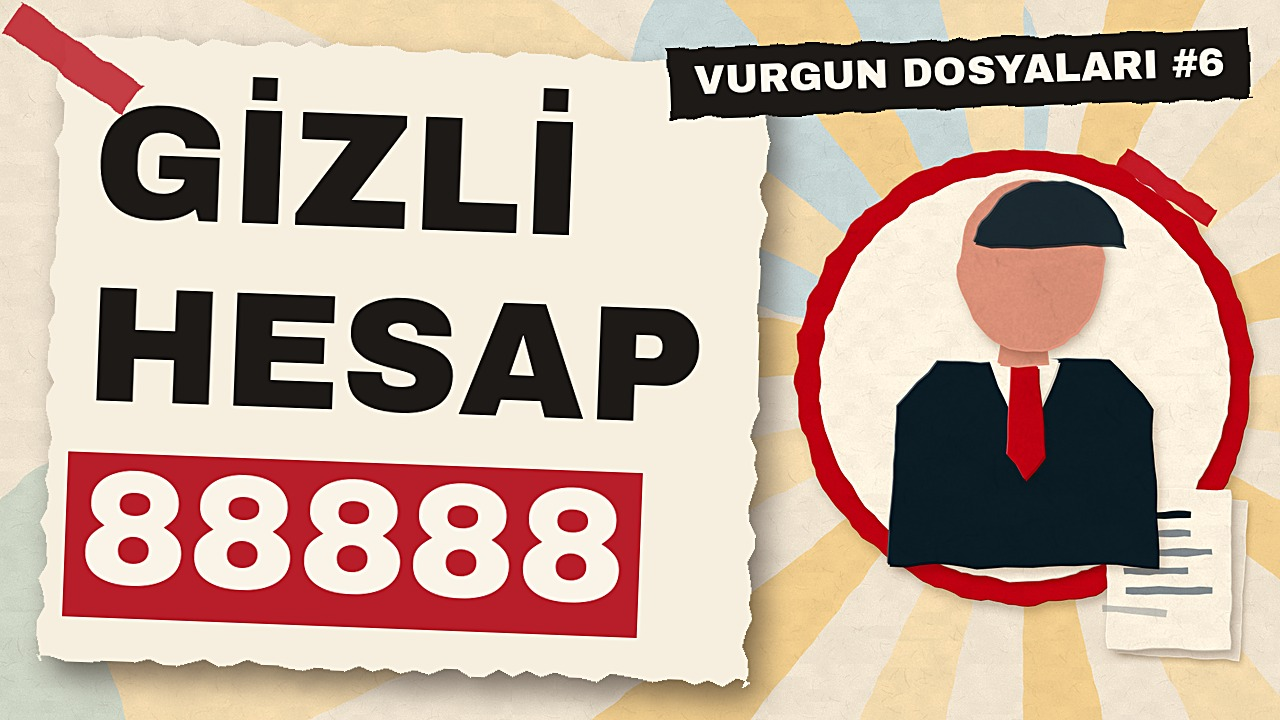
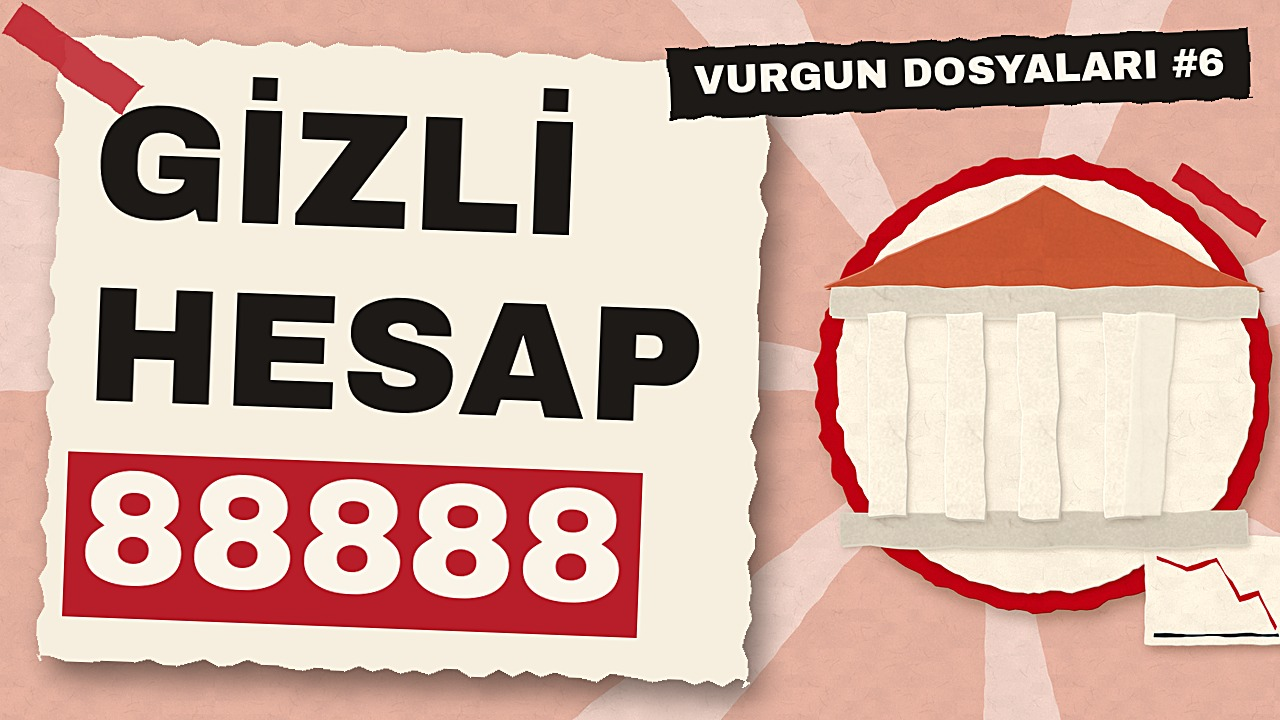
Son 6 videonun kapağı yeni kapak sistemiyle yenilendi
Claude-Session: https://claude.ai/code/session_01SX3fFHWYwdT2uozqr7xn97

diff --git a/tools/kapak_yenile.py b/tools/kapak_yenile.py
@@ -1,5 +1,6 @@
 """Yüklenmiş videoların kapaklarını kanal tarzında yeniden üretir ve YouTube'da değiştirir.
-Liste: data/kapak_yenile.json  ->  [{"video_id", "text", "prompt"}]"""
+Liste: data/kapak_yenile.json  ->  [{"video_id", "text", "prompt"}]
+"hazir": "<jpg yolu>" verilirse çizim yapılmaz, o dosya doğrudan yüklenir (kâğıt motoru kapakları)."""
 import json
 import sys
 from pathlib import Path
@@ -19,6 +20,13 @@ finder = VisualFinder(cfg, out / "_tmp")
 yt = uploader.get_service()
 for it in items:
     vid = it["video_id"]
+    if it.get("hazir"):
+        try:
+            yt.thumbnails().set(videoId=vid, media_body=MediaFileUpload(it["hazir"], mimetype="image/jpeg")).execute()
+            print(f"OK {vid}: kapak değiştirildi ({it['hazir']})")
+        except Exception as e:
+            print(f"HATA {vid}: {str(e)[:200]}")
+        continue
     bg = out / "_tmp" / f"{vid}_{len(it['text'])}.png"
     if not finder.cloudflare_image(it["prompt"], bg):
         print(f"HATA {vid}: çizim üretilemedi")
